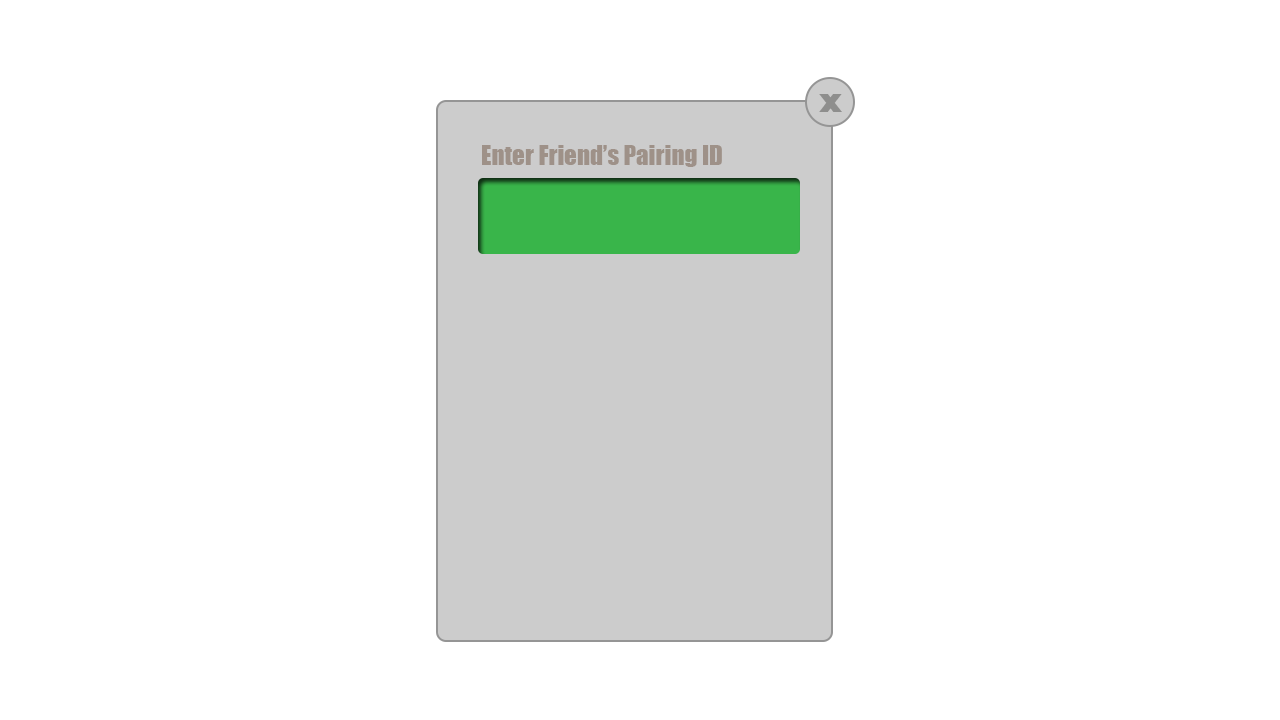
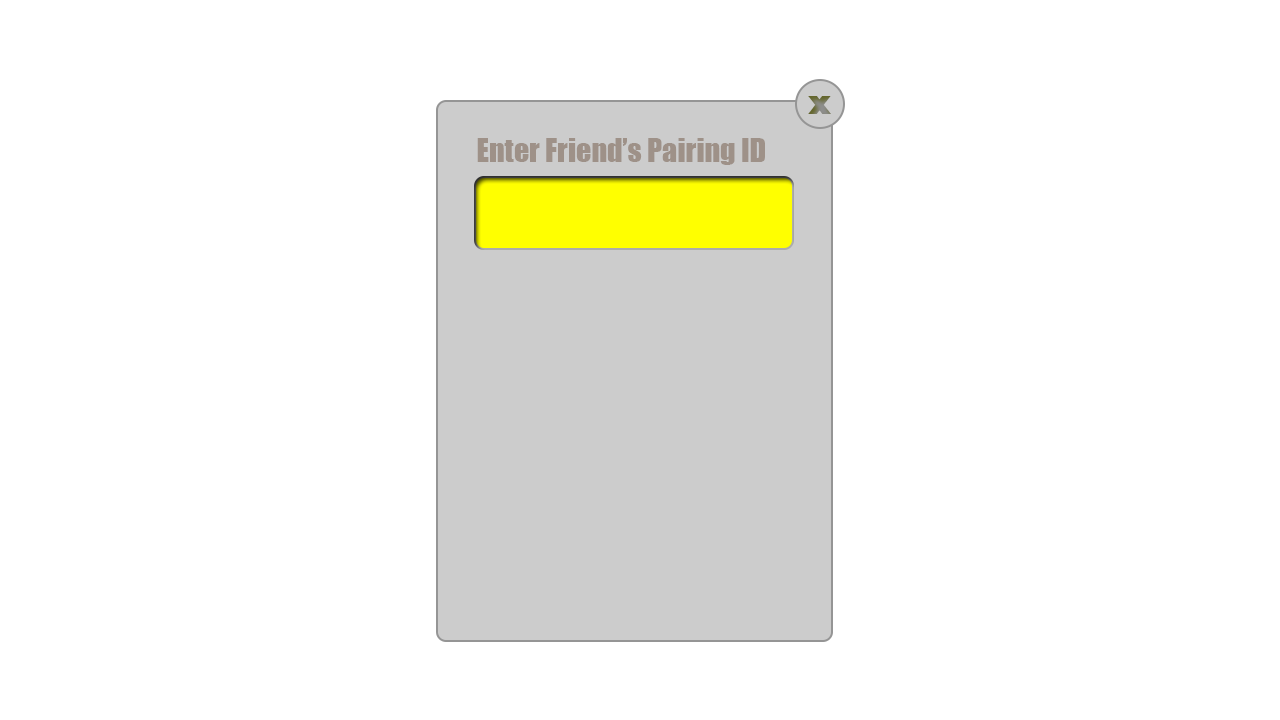
Hey

Changed region(s): [[0.3438, 0.1833, 0.625, 0.3667], [0.625, 0.0917, 0.6875, 0.1833]]

diff --git a/client/assets/js/main.js b/client/assets/js/main.js
@@ -793,29 +793,37 @@ window.onload = function () {
 
             var window = this.add.image (0, 0, 'pairing_placement' ).setOrigin ( 0 ).setScale(_gameW/1280);
 
-            var cX = Math.floor ( 803 * _gameW/1280 ),
-                cY = Math.floor ( 70 * _gameH/720 ),
+            var cX = Math.floor ( 797 * _gameW/1280 ),
+                cY = Math.floor ( 80 * _gameH/720 ),
                 cS = Math.floor ( 23 * _gameW/1280 );
 
-            var circ = this.add.circle ( cX, cY, cS, 0x3a3a3a, 0 ).setOrigin(0).setInteractive();
+            var circ = this.add.circle ( cX, cY, cS, 0x3a3a3a, 1 ).setAlpha(0.1).setOrigin(0).setInteractive();
 
+
+            circ.on('pointerover', function () {
+                this.setAlpha (0.3);
+            });
+
+            circ.on('pointerout', function () {
+                this.setAlpha(0.1);
+            }); 
+            
             circ.on('pointerdown', function () {
                 _this.music.play('clicka');
                 _this.removeConnectScreen();
             });
 
-            var txtH = Math.floor ( 50 * _gameH/720 );
+            var txtH = Math.floor ( 60 * _gameH/720 );
             var txtConfig = { 
                 color:'#4e4e4e', 
                 fontSize: txtH, 
                 fontFamily:'Impact', 
             };
 
+            var txtX = Math.floor ( 780 * _gameW/1280 ),
+                txtY = Math.floor ( 180 * _gameH/720 );
 
-            var txtX = Math.floor ( 788 * _gameW/1280 ),
-                txtY = Math.floor ( 230 * _gameH/720 );
-
-            var txt = this.add.text (txtX, txtY, '0', txtConfig ).setOrigin (1);
+            var txt = this.add.text (txtX, txtY, '0', txtConfig ).setOrigin (1, 0);
 
             this.screenElements = [ rectBg, window, circ, txt ]
 
@@ -825,8 +833,9 @@ window.onload = function () {
                 xH = Math.floor ( 83 * _gameW/1280 ),
                 xSp = Math.floor ( 3 * _gameW/1280 ),
 
-                xStart =  (_gameW - ((3 * (xW + xSp)) - xSp))/2,
-                yStart =  Math.floor ( 248 * _gameW/1280 );
+                //xStart =  (_gameW - ((3 * (xW + xSp)) - xSp))/2,
+                xStart =  Math.floor (474 * _gameW/1280 ),
+                yStart =  Math.floor ( 265 * _gameW/1280 );
 
             for ( var i = 0; i < 12; i++ ) {
 
